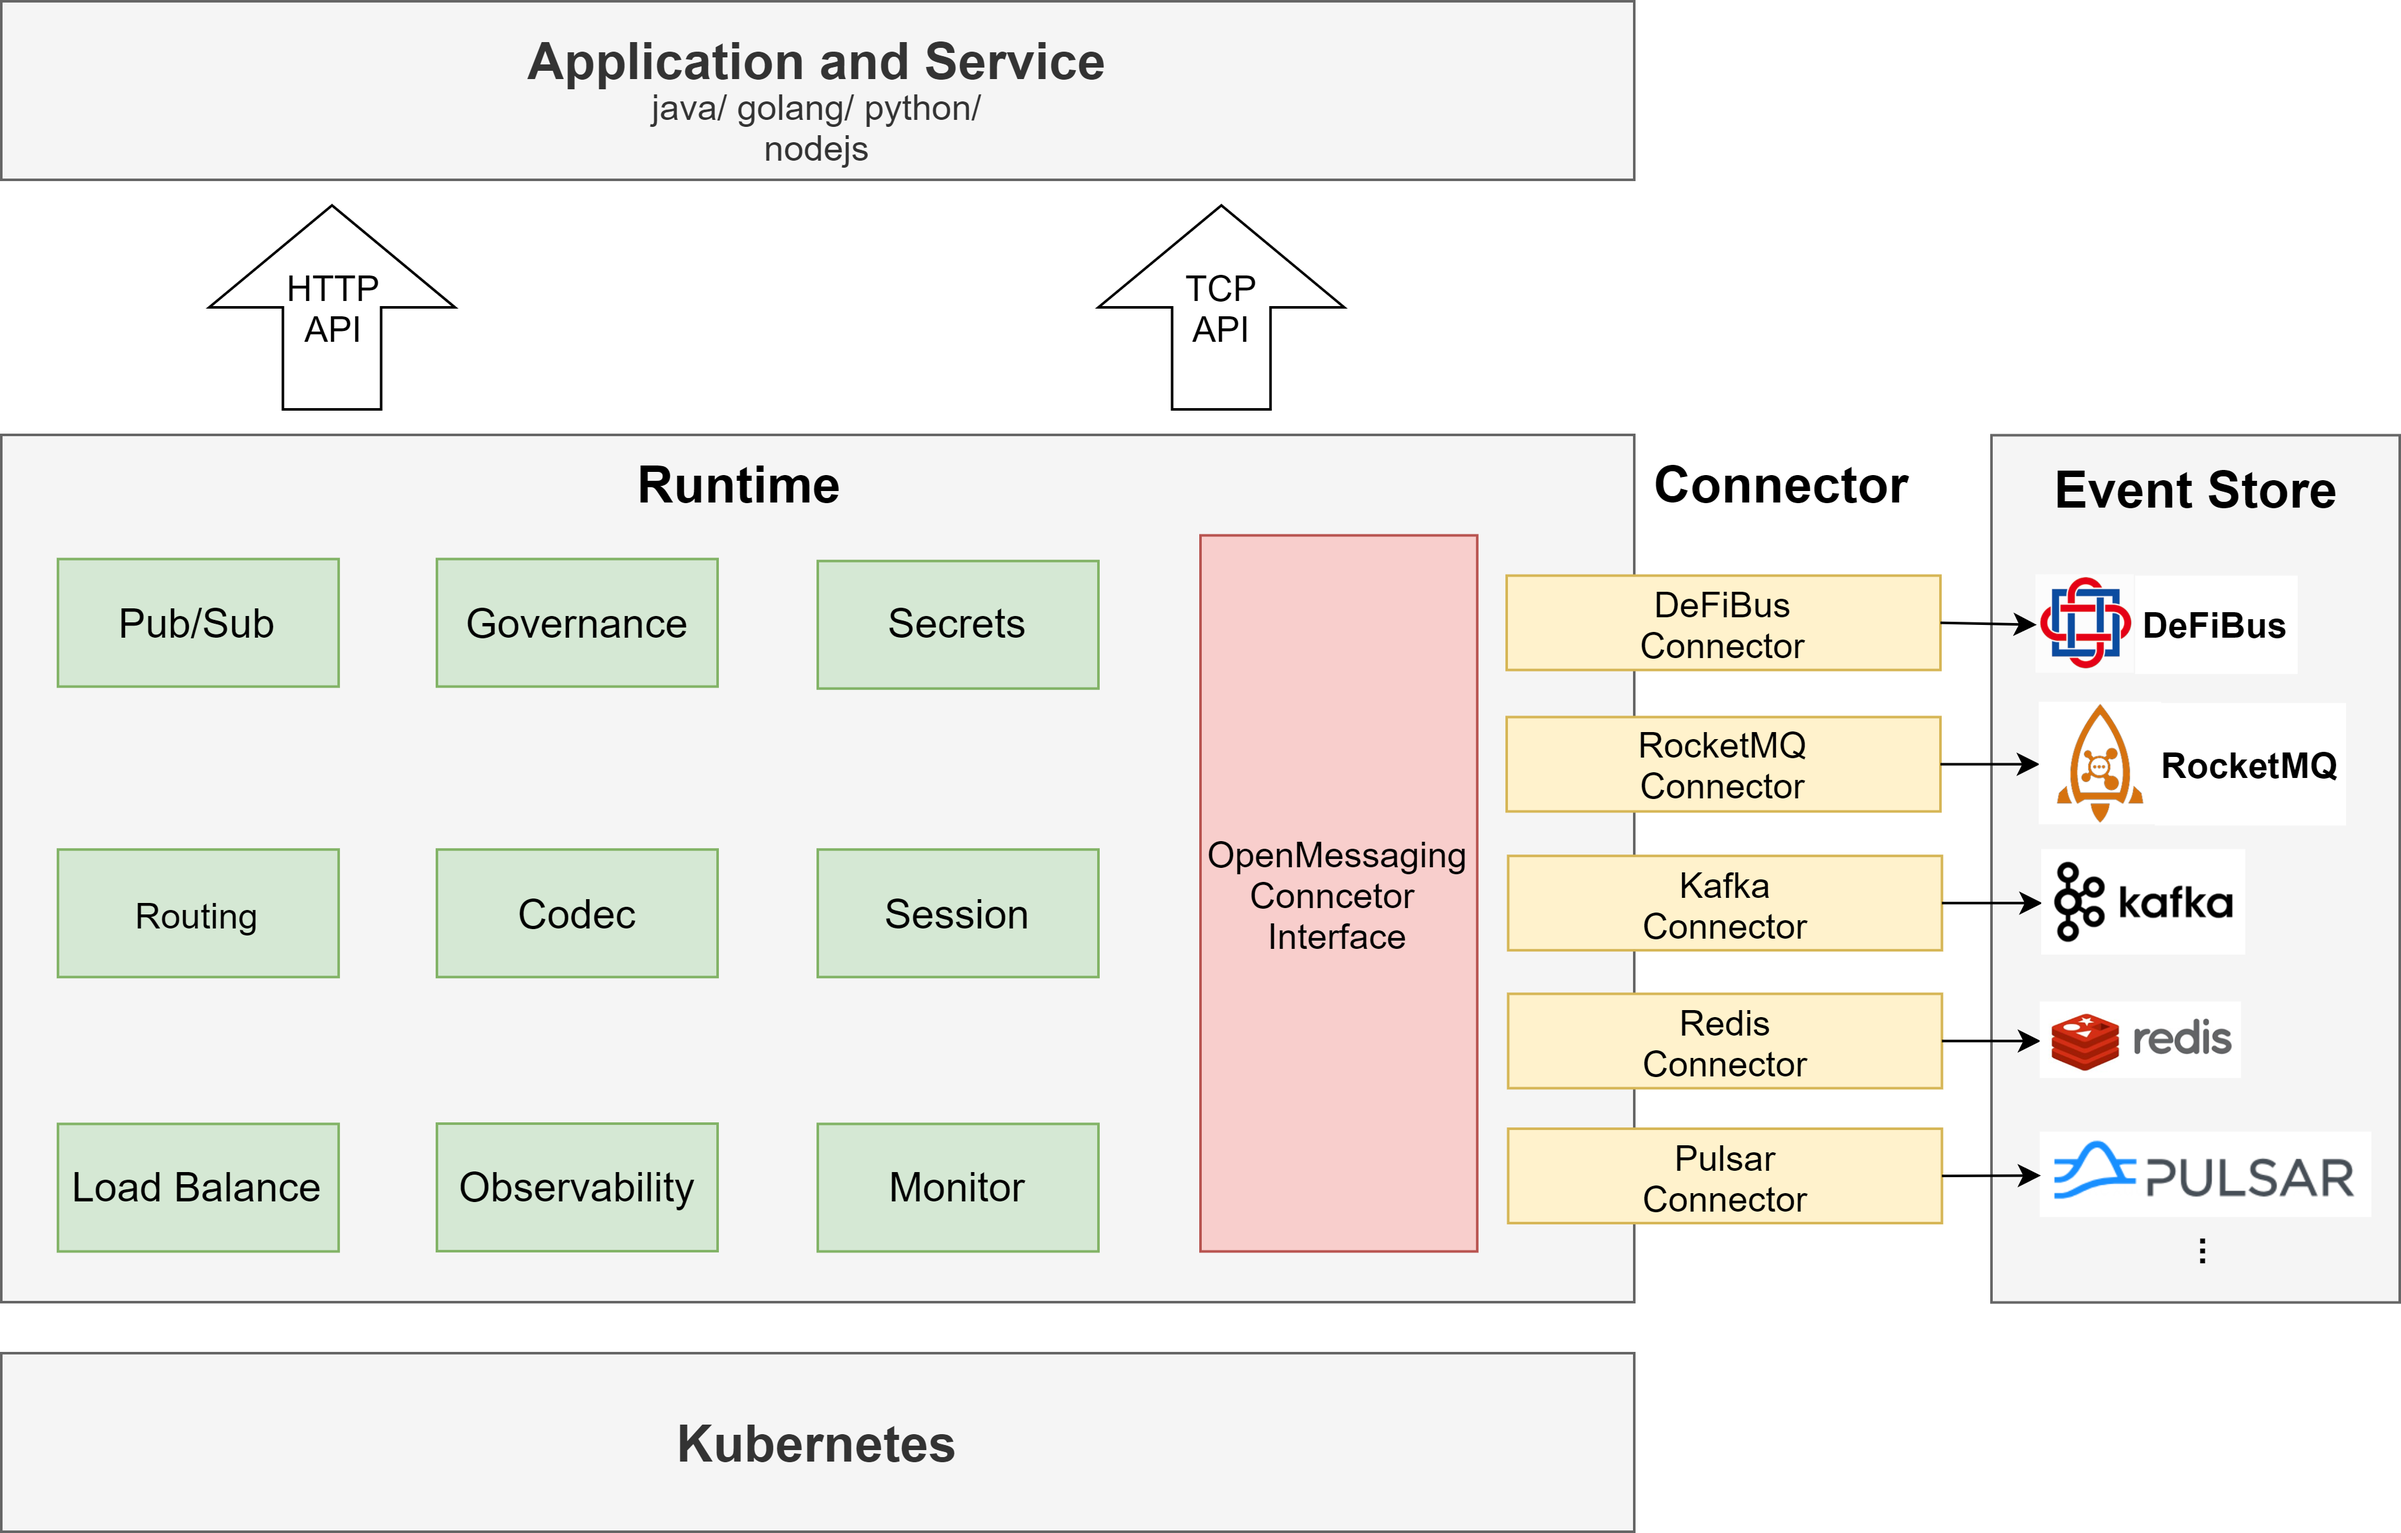
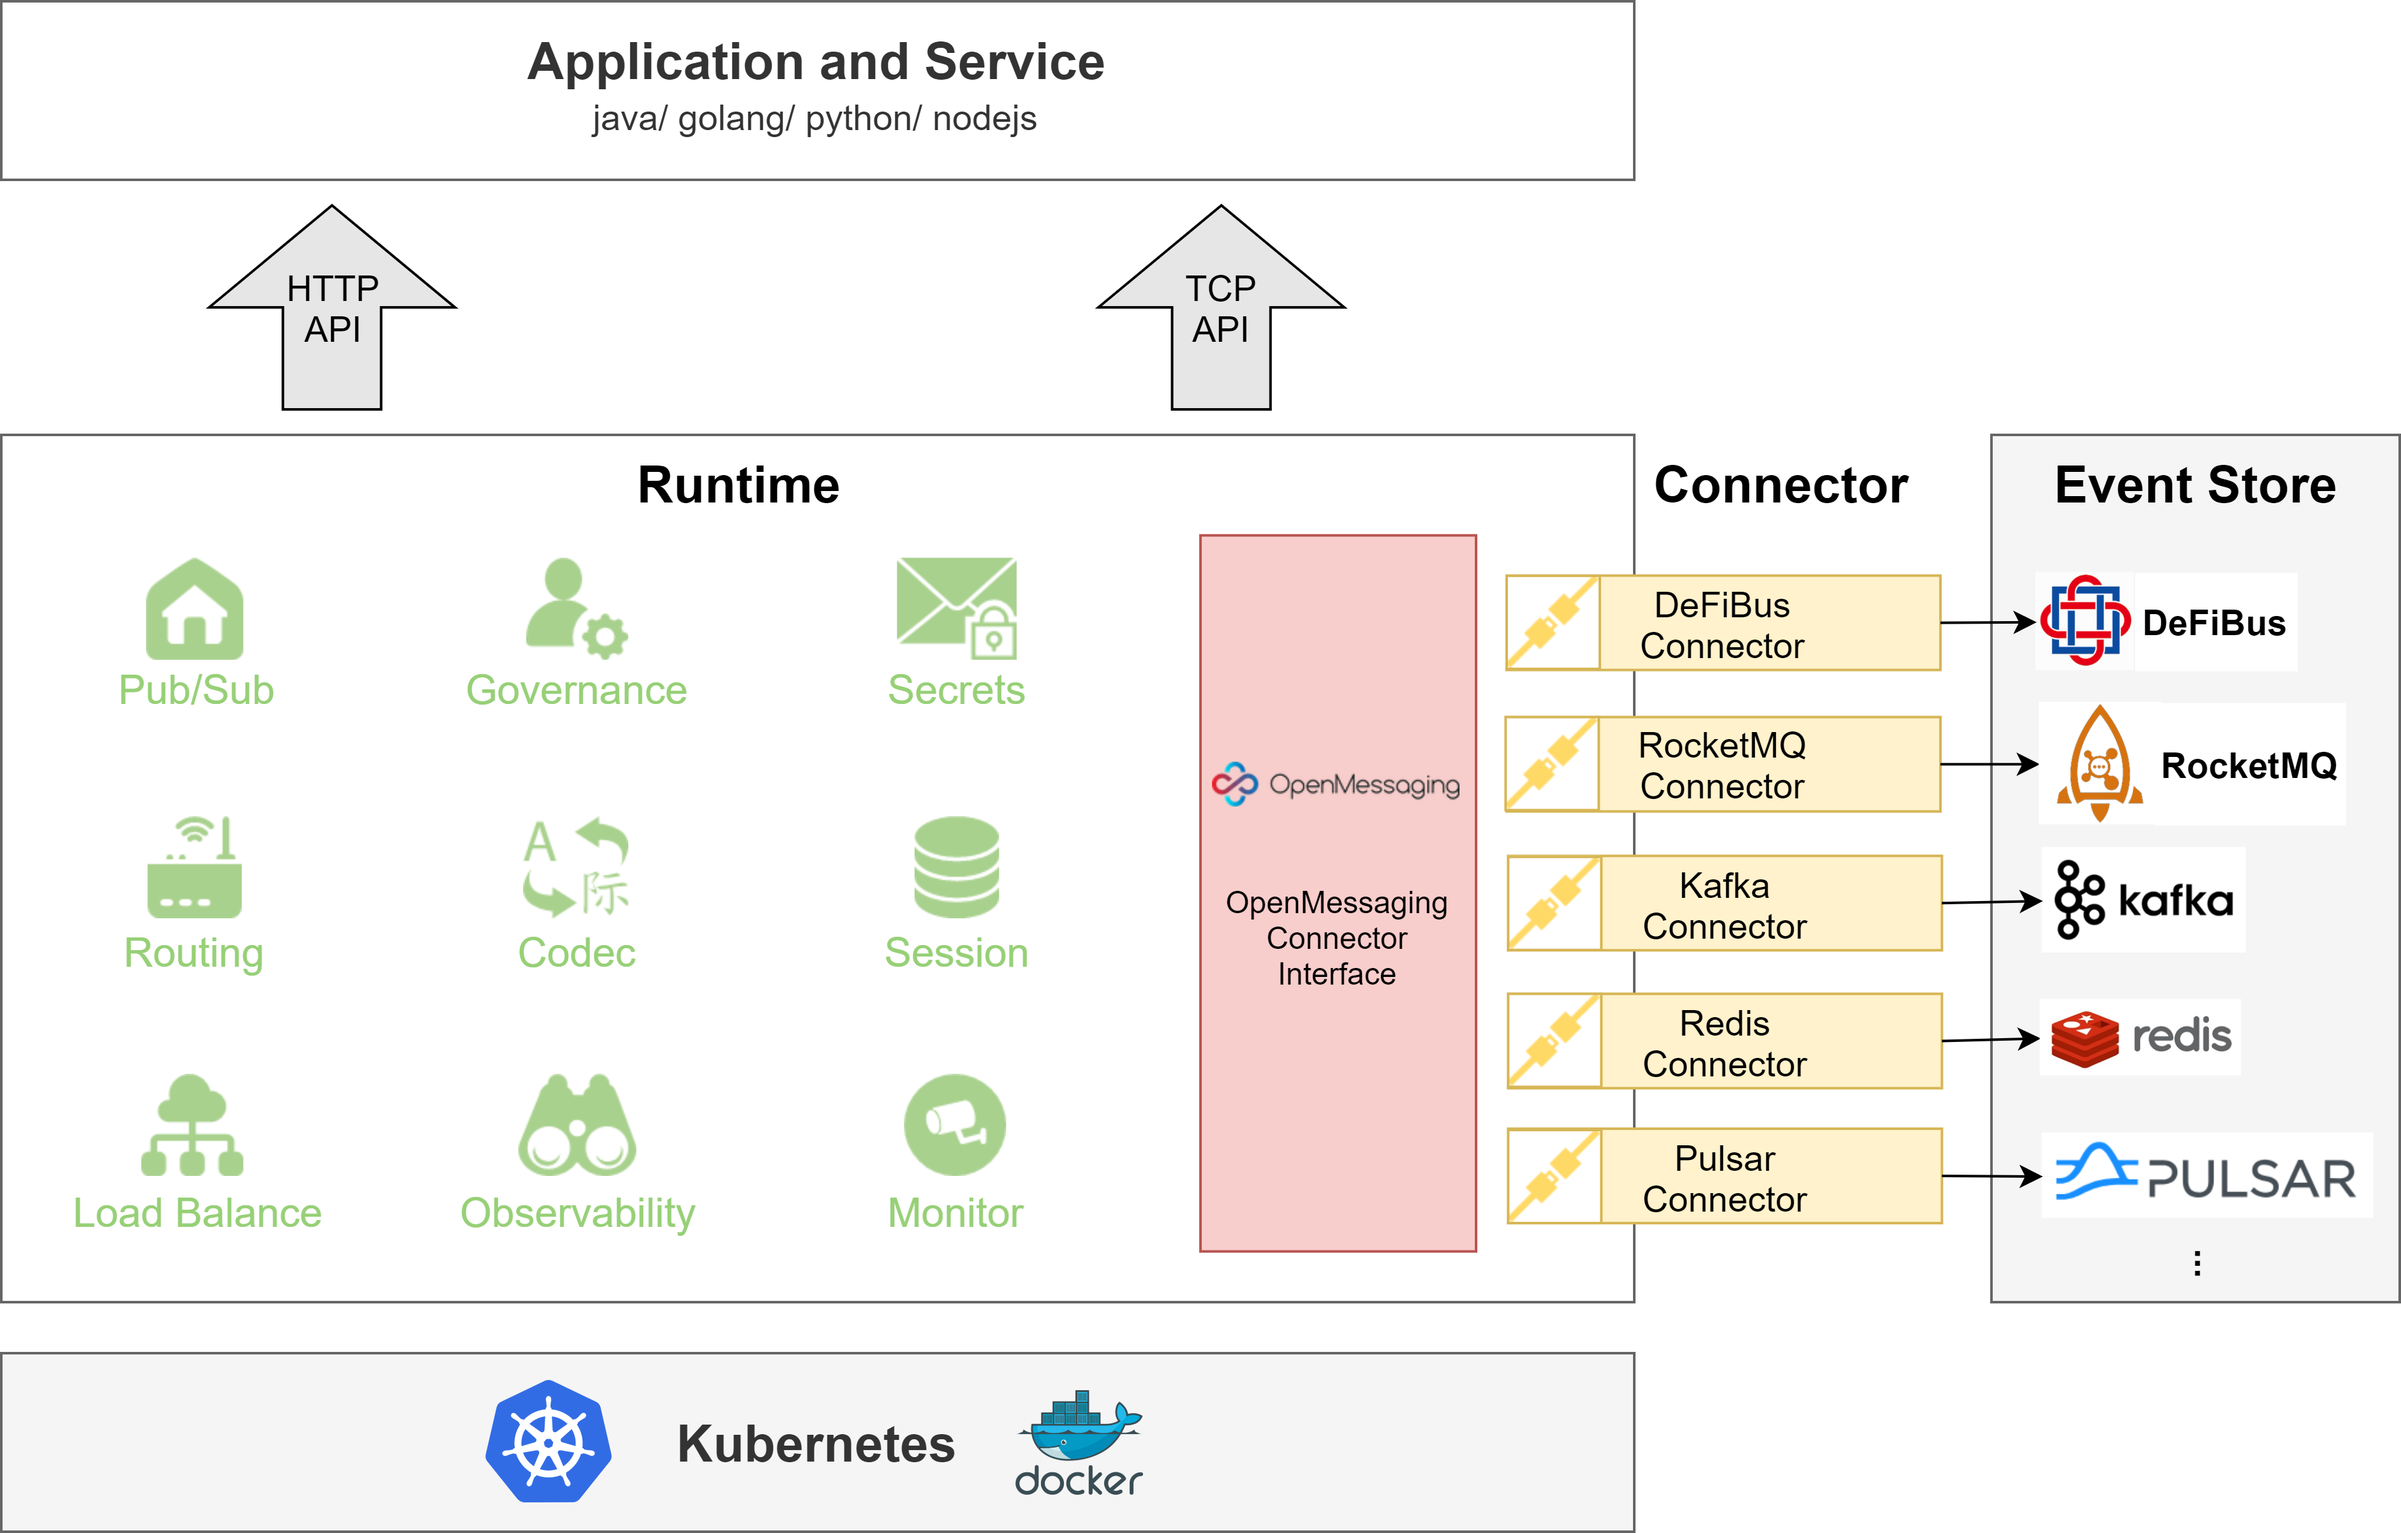
1.modify structure picture 2.fix Constants http time out value

diff --git a/eventmesh-common/src/main/java/com/webank/eventmesh/common/Constants.java b/eventmesh-common/src/main/java/com/webank/eventmesh/common/Constants.java
@@ -33,7 +33,7 @@ public class Constants {
 
     public static final String HTTPS_PROTOCOL_PREFIX = "https://";
 
-    public static final int DEFAULT_HTTP_TIME_OUT = 30000000;
+    public static final int DEFAULT_HTTP_TIME_OUT = 3000;
 
     public static final String PROXY_MESSAGE_CONST_TTL = "ttl";
 

diff --git a/README.md b/README.md
@@ -24,9 +24,9 @@ General functions of the event mesh:
 * Event driven;
 * Event governance;
 * Dynamic routing;
-* Cloud native
-* Flow Control
-* Load Balance
+* Cloud native；
+* Flow control；
+* Load balance
 
 **Support connecting event stores:**
 
